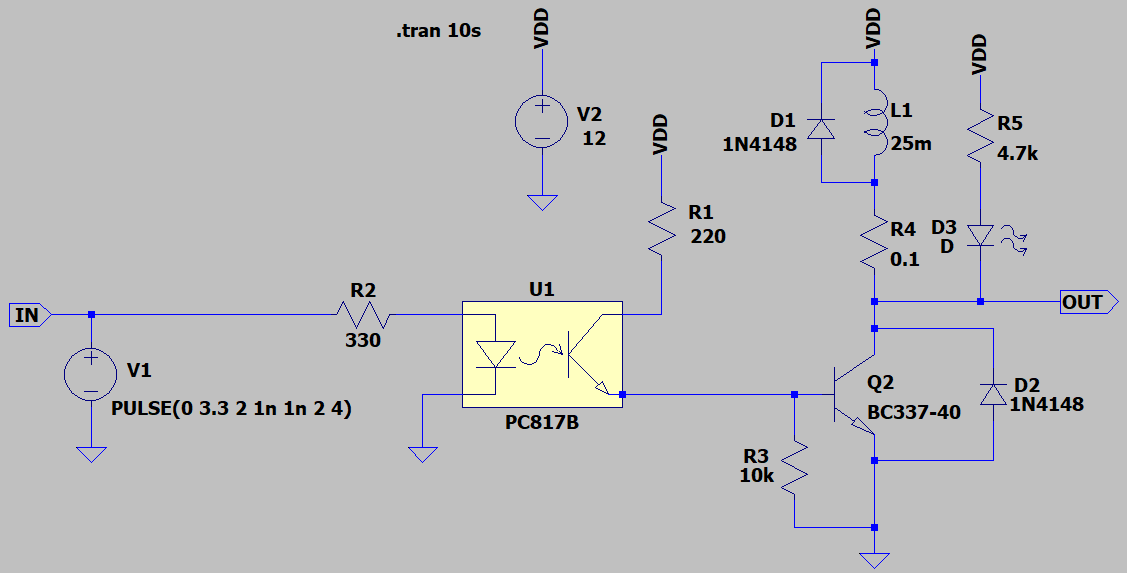
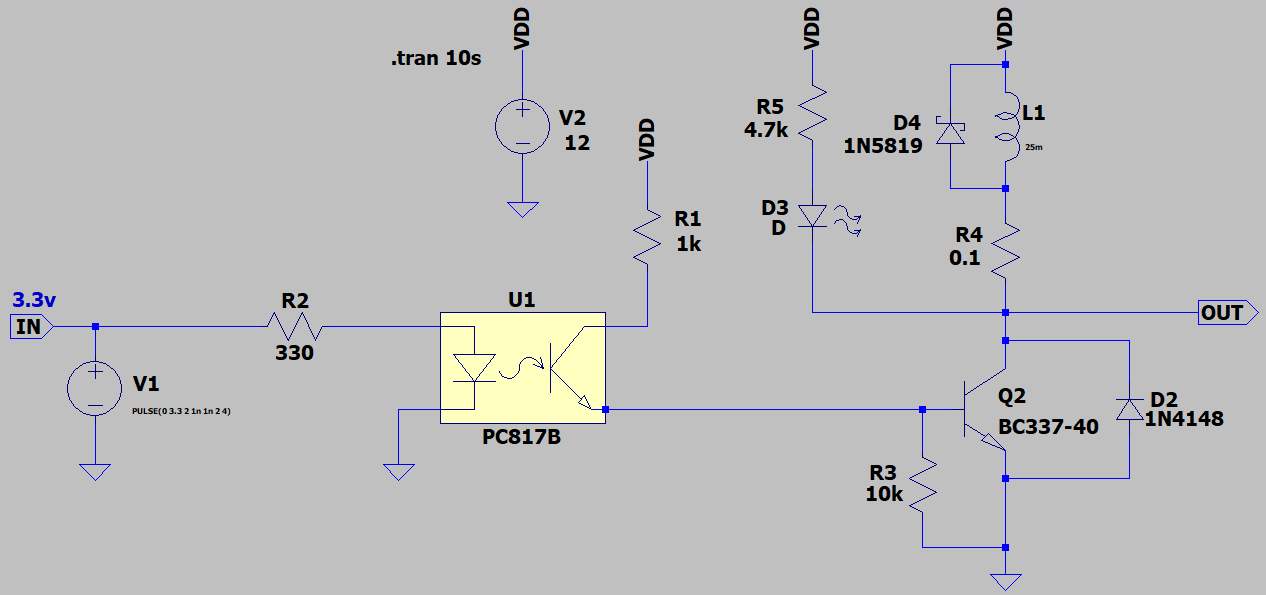
Update

diff --git a/Relay_CoilDriver_Isolated/README.md b/Relay_CoilDriver_Isolated/README.md
@@ -1,6 +1,6 @@
 ## Isolated Relay Driver Using Optocoupler
 
-### Features, v1.0
+### Features, v2.0
 - **Isolation Type:** Opto
 - **Isolation IC:** PC817
 - **Display Type:** LED
@@ -8,15 +8,11 @@
 - **Active Level:** High
 
 ### Simulate
-v1.0, Schematic  
-![](Simulate/v1.0_Schematic.png)
+v2.0, Schematic  
+![](Simulate/v2.0_Schematic.png)
 
-v1.0, Plot  
-![](Simulate/v1.0_Plot.png)
-
-### Schematic
-v1.0  
-![](Hardware/v1.0.png)
+v2.0, Plot  
+![](Simulate/v2.0_Plot.png)
 
 ### More Information
 **Note**: [You can go here to download a single folder or file from GitHub.com](https://minhaskamal.github.io/DownGit/#/home)  
